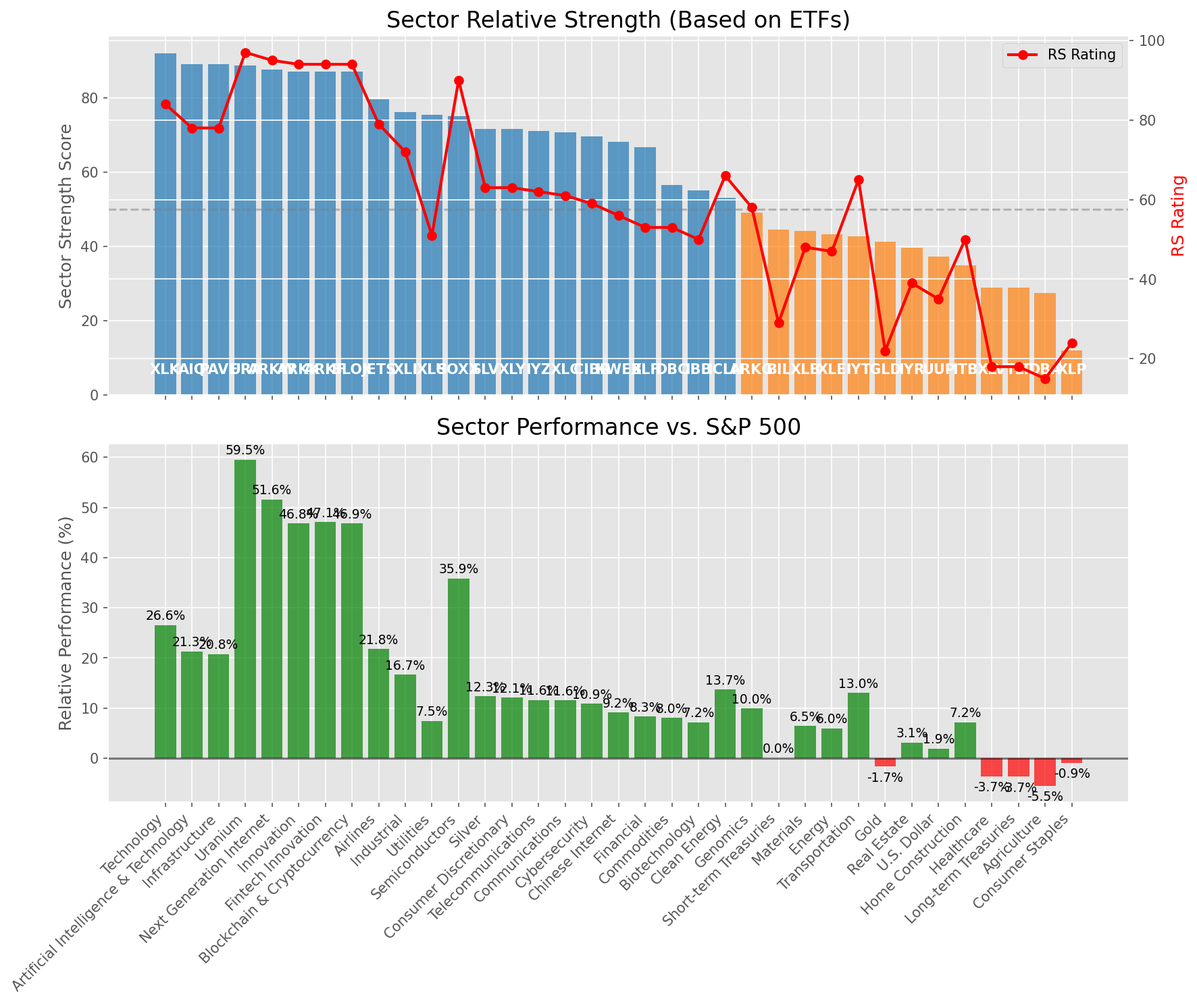
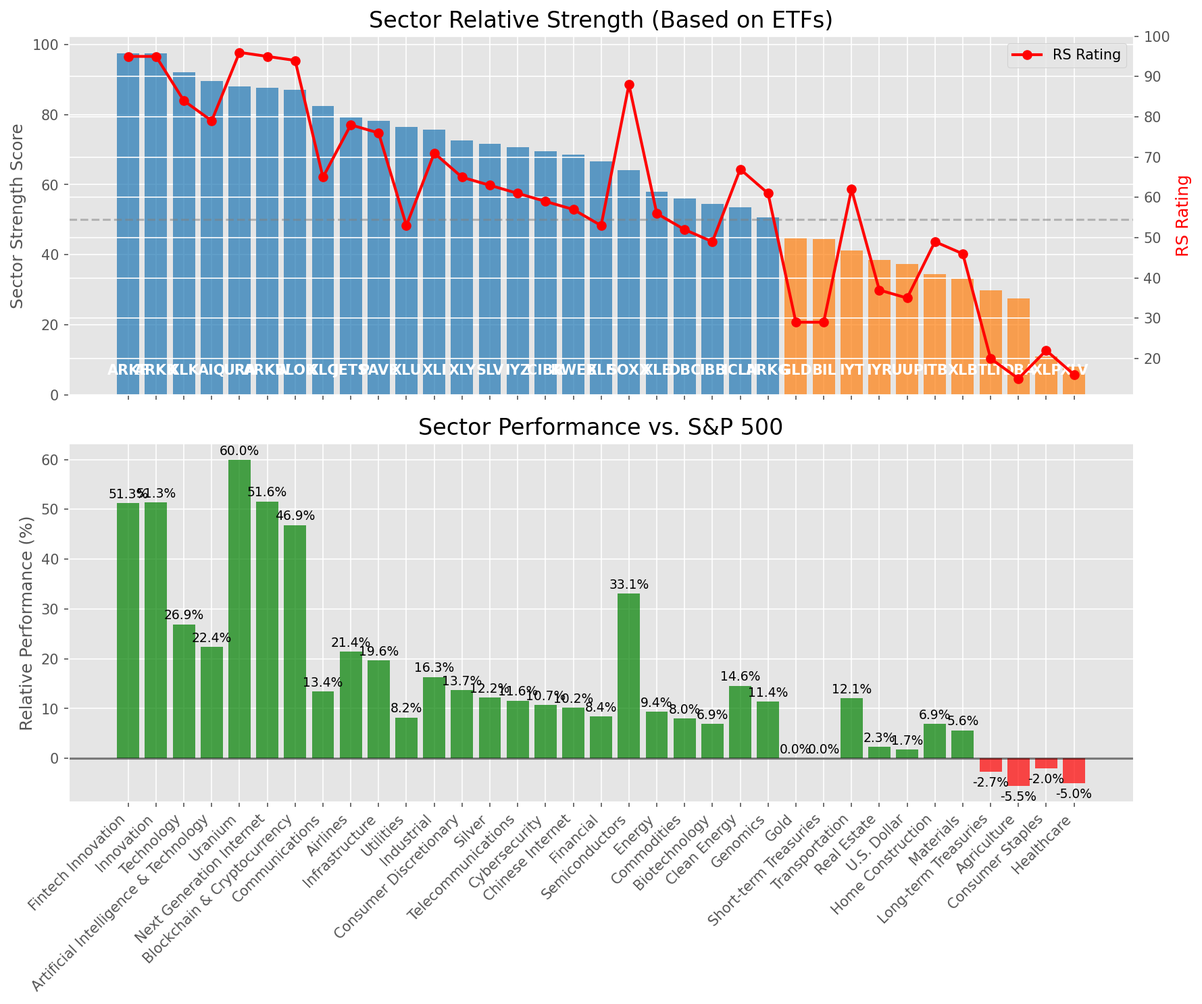
Add market report for 2025-07-31

diff --git a/oneil_relative_strength_report_2025-07-31.md b/oneil_relative_strength_report_2025-07-31.md
@@ -9,11 +9,11 @@
 | Metric | Value |
 |--------|-------|
 | **Market Valuation** | **Overvalued** |
-| **Current Ratio** | 10.29 |
-| **Historical Mean** | 9.50 |
+| **Current Ratio** | 10.37 |
+| **Historical Mean** | 9.52 |
 | **Standard Deviation** | 0.60 |
-| **Z-Score (StdDev from Mean)** | 1.34 |
-| **Total Market Cap** | $312.25 trillion |
+| **Z-Score (StdDev from Mean)** | 1.29 |
+| **Total Market Cap** | $314.61 trillion |
 | **GDP** | $30.33 trillion |
 
 ## **Market Insights**
@@ -49,41 +49,41 @@ Based on William O'Neil's Relative Strength Methodology
 
 | ETF | Strength | RS Rating | Performance | Above Key MAs | Trend | Sector |
 |-----|----------|-----------|-------------|--------------|-------|--------|
-| [XLK](https://www.tradingview.com/chart/?symbol=XLK) | 92.0 | 84.0 | 26.58% | 10d ✓, 50d ✓, 200d ✓ | ↗ | Technology |
-| [AIQ](https://www.tradingview.com/chart/?symbol=AIQ) | 89.0 | 78.0 | 21.30% | 10d ✓, 50d ✓, 200d ✓ | ↗ | Artificial Intelligence & Technology |
-| [PAVE](https://www.tradingview.com/chart/?symbol=PAVE) | 89.0 | 78.0 | 20.79% | 10d ✓, 50d ✓, 200d ✓ | ↗ | Infrastructure |
-| [URA](https://www.tradingview.com/chart/?symbol=URA) | 88.6 | 97.0 | 59.53% | 10d ✗, 50d ✓, 200d ✓ | ↗ | Uranium |
+| [ARKF](https://www.tradingview.com/chart/?symbol=ARKF) | 97.5 | 95.0 | 51.25% | 10d ✓, 50d ✓, 200d ✓ | ↗ | Fintech Innovation |
+| [ARKK](https://www.tradingview.com/chart/?symbol=ARKK) | 97.5 | 95.0 | 51.34% | 10d ✓, 50d ✓, 200d ✓ | ↗ | Innovation |
+| [XLK](https://www.tradingview.com/chart/?symbol=XLK) | 92.0 | 84.0 | 26.90% | 10d ✓, 50d ✓, 200d ✓ | ↗ | Technology |
+| [AIQ](https://www.tradingview.com/chart/?symbol=AIQ) | 89.5 | 79.0 | 22.36% | 10d ✓, 50d ✓, 200d ✓ | ↗ | Artificial Intelligence & Technology |
+| [URA](https://www.tradingview.com/chart/?symbol=URA) | 88.1 | 96.0 | 59.96% | 10d ✗, 50d ✓, 200d ✓ | ↗ | Uranium |
 | [ARKW](https://www.tradingview.com/chart/?symbol=ARKW) | 87.6 | 95.0 | 51.59% | 10d ✗, 50d ✓, 200d ✓ | ↗ | Next Generation Internet |
-| [ARKK](https://www.tradingview.com/chart/?symbol=ARKK) | 87.1 | 94.0 | 46.81% | 10d ✗, 50d ✓, 200d ✓ | ↗ | Innovation |
-| [ARKF](https://www.tradingview.com/chart/?symbol=ARKF) | 87.1 | 94.0 | 47.09% | 10d ✗, 50d ✓, 200d ✓ | ↗ | Fintech Innovation |
 | [BLOK](https://www.tradingview.com/chart/?symbol=BLOK) | 87.1 | 94.0 | 46.86% | 10d ✗, 50d ✓, 200d ✓ | ↗ | Blockchain & Cryptocurrency |
-| [JETS](https://www.tradingview.com/chart/?symbol=JETS) | 79.6 | 79.0 | 21.77% | 10d ✗, 50d ✓, 200d ✓ | ↗ | Airlines |
-| [XLI](https://www.tradingview.com/chart/?symbol=XLI) | 76.1 | 72.0 | 16.67% | 10d ✗, 50d ✓, 200d ✓ | ↗ | Industrial |
-| [XLU](https://www.tradingview.com/chart/?symbol=XLU) | 75.5 | 51.0 | 7.45% | 10d ✓, 50d ✓, 200d ✓ | ↗ | Utilities |
-| [SOXX](https://www.tradingview.com/chart/?symbol=SOXX) | 75.0 | 90.0 | 35.86% | 10d ✓, 50d ✓, 200d ✓ | ↘ | Semiconductors |
-| [SLV](https://www.tradingview.com/chart/?symbol=SLV) | 71.6 | 63.0 | 12.34% | 10d ✗, 50d ✓, 200d ✓ | ↗ | Silver |
-| [XLY](https://www.tradingview.com/chart/?symbol=XLY) | 71.6 | 63.0 | 12.12% | 10d ✗, 50d ✓, 200d ✓ | ↗ | Consumer Discretionary |
-| [IYZ](https://www.tradingview.com/chart/?symbol=IYZ) | 71.1 | 62.0 | 11.61% | 10d ✗, 50d ✓, 200d ✓ | ↗ | Telecommunications |
-| [XLC](https://www.tradingview.com/chart/?symbol=XLC) | 70.6 | 61.0 | 11.57% | 10d ✗, 50d ✓, 200d ✓ | ↗ | Communications |
-| [CIBR](https://www.tradingview.com/chart/?symbol=CIBR) | 69.6 | 59.0 | 10.86% | 10d ✗, 50d ✓, 200d ✓ | ↗ | Cybersecurity |
-| [KWEB](https://www.tradingview.com/chart/?symbol=KWEB) | 68.1 | 56.0 | 9.17% | 10d ✗, 50d ✓, 200d ✓ | ↗ | Chinese Internet |
-| [XLF](https://www.tradingview.com/chart/?symbol=XLF) | 66.6 | 53.0 | 8.28% | 10d ✗, 50d ✓, 200d ✓ | ↗ | Financial |
-| [DBC](https://www.tradingview.com/chart/?symbol=DBC) | 56.5 | 53.0 | 8.02% | 10d ✓, 50d ✓, 200d ✓ | ↘ | Commodities |
-| [IBB](https://www.tradingview.com/chart/?symbol=IBB) | 55.0 | 50.0 | 7.17% | 10d ✓, 50d ✓, 200d ✓ | ↘ | Biotechnology |
-| [ICLN](https://www.tradingview.com/chart/?symbol=ICLN) | 53.1 | 66.0 | 13.67% | 10d ✗, 50d ✓, 200d ✓ | ↘ | Clean Energy |
-| [ARKG](https://www.tradingview.com/chart/?symbol=ARKG) | 49.1 | 58.0 | 9.96% | 10d ✗, 50d ✓, 200d ✓ | ↘ | Genomics |
-| [BIL](https://www.tradingview.com/chart/?symbol=BIL) | 44.5 | 29.0 | 0.03% | 10d ✓, 50d ✓, 200d ✓ | ↘ | Short-term Treasuries |
-| [XLB](https://www.tradingview.com/chart/?symbol=XLB) | 44.1 | 48.0 | 6.46% | 10d ✗, 50d ✓, 200d ✓ | ↘ | Materials |
-| [XLE](https://www.tradingview.com/chart/?symbol=XLE) | 43.3 | 47.0 | 5.98% | 10d ✓, 50d ✓, 200d ✗ | ↘ | Energy |
-| [IYT](https://www.tradingview.com/chart/?symbol=IYT) | 42.7 | 65.0 | 13.04% | 10d ✗, 50d ✗, 200d ✓ | ↘ | Transportation |
-| [GLD](https://www.tradingview.com/chart/?symbol=GLD) | 41.2 | 22.0 | -1.67% | 10d ✗, 50d ✗, 200d ✓ | ↗ | Gold |
-| [IYR](https://www.tradingview.com/chart/?symbol=IYR) | 39.6 | 39.0 | 3.15% | 10d ✗, 50d ✓, 200d ✓ | ↘ | Real Estate |
-| [UUP](https://www.tradingview.com/chart/?symbol=UUP) | 37.3 | 35.0 | 1.94% | 10d ✓, 50d ✓, 200d ✗ | ↘ | U.S. Dollar |
-| [ITB](https://www.tradingview.com/chart/?symbol=ITB) | 34.9 | 50.0 | 7.18% | 10d ✗, 50d ✓, 200d ✗ | ↘ | Home Construction |
-| [XLV](https://www.tradingview.com/chart/?symbol=XLV) | 28.8 | 18.0 | -3.65% | 10d ✓, 50d ✓, 200d ✗ | ↘ | Healthcare |
-| [TLT](https://www.tradingview.com/chart/?symbol=TLT) | 28.8 | 18.0 | -3.69% | 10d ✓, 50d ✓, 200d ✗ | ↘ | Long-term Treasuries |
+| [XLC](https://www.tradingview.com/chart/?symbol=XLC) | 82.5 | 65.0 | 13.43% | 10d ✓, 50d ✓, 200d ✓ | ↗ | Communications |
+| [JETS](https://www.tradingview.com/chart/?symbol=JETS) | 79.1 | 78.0 | 21.42% | 10d ✗, 50d ✓, 200d ✓ | ↗ | Airlines |
+| [PAVE](https://www.tradingview.com/chart/?symbol=PAVE) | 78.1 | 76.0 | 19.62% | 10d ✗, 50d ✓, 200d ✓ | ↗ | Infrastructure |
+| [XLU](https://www.tradingview.com/chart/?symbol=XLU) | 76.5 | 53.0 | 8.22% | 10d ✓, 50d ✓, 200d ✓ | ↗ | Utilities |
+| [XLI](https://www.tradingview.com/chart/?symbol=XLI) | 75.6 | 71.0 | 16.32% | 10d ✗, 50d ✓, 200d ✓ | ↗ | Industrial |
+| [XLY](https://www.tradingview.com/chart/?symbol=XLY) | 72.6 | 65.0 | 13.66% | 10d ✗, 50d ✓, 200d ✓ | ↗ | Consumer Discretionary |
+| [SLV](https://www.tradingview.com/chart/?symbol=SLV) | 71.6 | 63.0 | 12.21% | 10d ✗, 50d ✓, 200d ✓ | ↗ | Silver |
+| [IYZ](https://www.tradingview.com/chart/?symbol=IYZ) | 70.6 | 61.0 | 11.61% | 10d ✗, 50d ✓, 200d ✓ | ↗ | Telecommunications |
+| [CIBR](https://www.tradingview.com/chart/?symbol=CIBR) | 69.6 | 59.0 | 10.67% | 10d ✗, 50d ✓, 200d ✓ | ↗ | Cybersecurity |
+| [KWEB](https://www.tradingview.com/chart/?symbol=KWEB) | 68.6 | 57.0 | 10.16% | 10d ✗, 50d ✓, 200d ✓ | ↗ | Chinese Internet |
+| [XLF](https://www.tradingview.com/chart/?symbol=XLF) | 66.6 | 53.0 | 8.41% | 10d ✗, 50d ✓, 200d ✓ | ↗ | Financial |
+| [SOXX](https://www.tradingview.com/chart/?symbol=SOXX) | 64.1 | 88.0 | 33.05% | 10d ✗, 50d ✓, 200d ✓ | ↘ | Semiconductors |
+| [XLE](https://www.tradingview.com/chart/?symbol=XLE) | 58.0 | 56.0 | 9.38% | 10d ✓, 50d ✓, 200d ✓ | ↘ | Energy |
+| [DBC](https://www.tradingview.com/chart/?symbol=DBC) | 56.0 | 52.0 | 8.02% | 10d ✓, 50d ✓, 200d ✓ | ↘ | Commodities |
+| [IBB](https://www.tradingview.com/chart/?symbol=IBB) | 54.5 | 49.0 | 6.92% | 10d ✓, 50d ✓, 200d ✓ | ↘ | Biotechnology |
+| [ICLN](https://www.tradingview.com/chart/?symbol=ICLN) | 53.6 | 67.0 | 14.57% | 10d ✗, 50d ✓, 200d ✓ | ↘ | Clean Energy |
+| [ARKG](https://www.tradingview.com/chart/?symbol=ARKG) | 50.6 | 61.0 | 11.41% | 10d ✗, 50d ✓, 200d ✓ | ↘ | Genomics |
+| [GLD](https://www.tradingview.com/chart/?symbol=GLD) | 44.7 | 29.0 | 0.02% | 10d ✗, 50d ✗, 200d ✓ | ↗ | Gold |
+| [BIL](https://www.tradingview.com/chart/?symbol=BIL) | 44.5 | 29.0 | 0.04% | 10d ✓, 50d ✓, 200d ✓ | ↘ | Short-term Treasuries |
+| [IYT](https://www.tradingview.com/chart/?symbol=IYT) | 41.2 | 62.0 | 12.08% | 10d ✗, 50d ✗, 200d ✓ | ↘ | Transportation |
+| [IYR](https://www.tradingview.com/chart/?symbol=IYR) | 38.6 | 37.0 | 2.35% | 10d ✗, 50d ✓, 200d ✓ | ↘ | Real Estate |
+| [UUP](https://www.tradingview.com/chart/?symbol=UUP) | 37.3 | 35.0 | 1.73% | 10d ✓, 50d ✓, 200d ✗ | ↘ | U.S. Dollar |
+| [ITB](https://www.tradingview.com/chart/?symbol=ITB) | 34.4 | 49.0 | 6.92% | 10d ✗, 50d ✓, 200d ✗ | ↘ | Home Construction |
+| [XLB](https://www.tradingview.com/chart/?symbol=XLB) | 33.2 | 46.0 | 5.64% | 10d ✗, 50d ✗, 200d ✓ | ↘ | Materials |
+| [TLT](https://www.tradingview.com/chart/?symbol=TLT) | 29.8 | 20.0 | -2.66% | 10d ✓, 50d ✓, 200d ✗ | ↘ | Long-term Treasuries |
 | [DBA](https://www.tradingview.com/chart/?symbol=DBA) | 27.5 | 15.0 | -5.53% | 10d ✗, 50d ✗, 200d ✗ | ↗ | Agriculture |
-| [XLP](https://www.tradingview.com/chart/?symbol=XLP) | 12.0 | 24.0 | -0.95% | 10d ✗, 50d ✗, 200d ✗ | ↘ | Consumer Staples |
+| [XLP](https://www.tradingview.com/chart/?symbol=XLP) | 11.0 | 22.0 | -2.00% | 10d ✗, 50d ✗, 200d ✗ | ↘ | Consumer Staples |
+| [XLV](https://www.tradingview.com/chart/?symbol=XLV) | 8.0 | 16.0 | -5.00% | 10d ✗, 50d ✗, 200d ✗ | ↘ | Healthcare |
 
 ### **Sector ETF Performance Interpretation**
 
@@ -98,76 +98,83 @@ This table shows the relative strength metrics for different market sectors base
 
 ### **Current Sector Leadership**
 
-The current market leadership is coming from the following sectors: **Technology, Artificial Intelligence & Technology, Infrastructure**.
+The current market leadership is coming from the following sectors: **Fintech Innovation, Innovation, Technology**.
 
-The **Technology** sector (represented by **XLK**) is showing particularly strong relative strength with an RS rating of 84.0 and performance of 26.58% vs. the S&P 500. This sector is trading above its 10-day, 50-day, 200-day moving average(s). Investors should consider focusing on high RS stocks within these leading sectors for potential outperformance.
+The **Fintech Innovation** sector (represented by **ARKF**) is showing particularly strong relative strength with an RS rating of 95.0 and performance of 51.25% vs. the S&P 500. This sector is trading above its 10-day, 50-day, 200-day moving average(s). Investors should consider focusing on high RS stocks within these leading sectors for potential outperformance.
 
 ---
 
 ## **Buy Recommendations**
 
-The following 59 stocks show exceptional relative strength:
+The following 66 stocks show exceptional relative strength:
 
 | RS Rating | Buy Score | Current Price | Chart | Name | Ticker |
 |-----------|-----------|---------------|-------|------|--------|
-| 100 | 100 | $106.10 | [Chart](https://www.tradingview.com/chart/?symbol=HOOD) | Robinhood Markets, Inc. Class A Common Stock | HOOD |
-| 100 | 100 | $202.41 | [Chart](https://www.tradingview.com/chart/?symbol=CLS) | Celestica, Inc. | CLS |
+| 100 | 100 | $106.92 | [Chart](https://www.tradingview.com/chart/?symbol=HOOD) | Robinhood Markets, Inc. Class A Common Stock | HOOD |
+| 100 | 100 | $50.50 | [Chart](https://www.tradingview.com/chart/?symbol=TTMI) | TTM Technologies Inc | TTMI |
+| 100 | 100 | $157.96 | [Chart](https://www.tradingview.com/chart/?symbol=SEZL) | Sezzle Inc. Common Stock | SEZL |
+| 100 | 100 | $209.24 | [Chart](https://www.tradingview.com/chart/?symbol=CLS) | Celestica, Inc. | CLS |
+| 100 | 100 | $61.85 | [Chart](https://www.tradingview.com/chart/?symbol=MP) | MP Materials Corp. | MP |
 | 100 | 100 | $240.20 | [Chart](https://www.tradingview.com/chart/?symbol=DAVE) | Dave Inc. Class A Common Stock | DAVE |
-| 100 | 100 | $150.93 | [Chart](https://www.tradingview.com/chart/?symbol=SEZL) | Sezzle Inc. Common Stock | SEZL |
-| 100 | 100 | $48.73 | [Chart](https://www.tradingview.com/chart/?symbol=TTMI) | TTM Technologies Inc | TTMI |
-| 99 | 100 | $65.53 | [Chart](https://www.tradingview.com/chart/?symbol=HIMS) | Hims & Hers Health, Inc. | HIMS |
-| 99 | 100 | $124.94 | [Chart](https://www.tradingview.com/chart/?symbol=RBLX) | Roblox Corporation | RBLX |
+| 99 | 100 | $69.31 | [Chart](https://www.tradingview.com/chart/?symbol=HIMS) | Hims & Hers Health, Inc. | HIMS |
 | 99 | 100 | $76.40 | [Chart](https://www.tradingview.com/chart/?symbol=LIF) | Life360, Inc. Common Stock | LIF |
-| 98 | 100 | $373.36 | [Chart](https://www.tradingview.com/chart/?symbol=TLN) | Talen Energy Corporation Common Stock | TLN |
-| 98 | 100 | $655.00 | [Chart](https://www.tradingview.com/chart/?symbol=GEV) | GE Vernova Inc. | GEV |
-| 98 | 100 | $24.36 | [Chart](https://www.tradingview.com/chart/?symbol=CPS) | Cooper-Standard Automotive Inc. | CPS |
-| 97 | 100 | $200.85 | [Chart](https://www.tradingview.com/chart/?symbol=NET) | Cloudflare, Inc. Class A common stock, par value $0.001 per share | NET |
-| 97 | 100 | $36.18 | [Chart](https://www.tradingview.com/chart/?symbol=ATRO) | Astronics Corp | ATRO |
-| 97 | 100 | $38.85 | [Chart](https://www.tradingview.com/chart/?symbol=AS) | Amer Sports, Inc. | AS |
-| 96 | 100 | $226.42 | [Chart](https://www.tradingview.com/chart/?symbol=JBL) | Jabil Inc. | JBL |
-| 96 | 100 | $240.50 | [Chart](https://www.tradingview.com/chart/?symbol=AGX) | Argan, Inc | AGX |
-| 96 | 100 | $49.18 | [Chart](https://www.tradingview.com/chart/?symbol=REVG) | REV Group, Inc. | REVG |
-| 96 | 100 | $66.22 | [Chart](https://www.tradingview.com/chart/?symbol=IBKR) | Interactive Brokers Group, Inc. Class A Common Stock | IBKR |
-| 95 | 100 | $166.59 | [Chart](https://www.tradingview.com/chart/?symbol=NRG) | NRG Energy, Inc. | NRG |
+| 99 | 100 | $670.83 | [Chart](https://www.tradingview.com/chart/?symbol=GEV) | GE Vernova Inc. | GEV |
+| 99 | 100 | $142.34 | [Chart](https://www.tradingview.com/chart/?symbol=RBLX) | Roblox Corporation | RBLX |
+| 98 | 100 | $377.89 | [Chart](https://www.tradingview.com/chart/?symbol=TLN) | Talen Energy Corporation Common Stock | TLN |
+| 98 | 100 | $58.38 | [Chart](https://www.tradingview.com/chart/?symbol=KTOS) | Kratos Defense & Security Solutions, Inc. | KTOS |
+| 98 | 100 | $409.50 | [Chart](https://www.tradingview.com/chart/?symbol=CVNA) | Carvana Co. | CVNA |
+| 98 | 100 | $208.76 | [Chart](https://www.tradingview.com/chart/?symbol=NET) | Cloudflare, Inc. Class A common stock, par value $0.001 per share | NET |
+| 97 | 100 | $250.00 | [Chart](https://www.tradingview.com/chart/?symbol=AGX) | Argan, Inc | AGX |
+| 97 | 100 | $36.30 | [Chart](https://www.tradingview.com/chart/?symbol=ATRO) | Astronics Corp | ATRO |
+| 97 | 100 | $24.36 | [Chart](https://www.tradingview.com/chart/?symbol=CPS) | Cooper-Standard Automotive Inc. | CPS |
+| 97 | 100 | $37.73 | [Chart](https://www.tradingview.com/chart/?symbol=NNE) | Nano Nuclear Energy Inc. Common Stock | NNE |
+| 96 | 100 | $66.44 | [Chart](https://www.tradingview.com/chart/?symbol=IBKR) | Interactive Brokers Group, Inc. Class A Common Stock | IBKR |
+| 96 | 100 | $38.37 | [Chart](https://www.tradingview.com/chart/?symbol=AS) | Amer Sports, Inc. | AS |
+| 95 | 100 | $49.18 | [Chart](https://www.tradingview.com/chart/?symbol=REVG) | REV Group, Inc. | REVG |
+| 95 | 100 | $54.57 | [Chart](https://www.tradingview.com/chart/?symbol=ARKF) | ARK Fintech Innovation ETF | ARKF |
+| 95 | 100 | $117.23 | [Chart](https://www.tradingview.com/chart/?symbol=SANM) | Sanmina  Corp | SANM |
 | 95 | 100 | $137.88 | [Chart](https://www.tradingview.com/chart/?symbol=LMB) | Limbach Holdings, Inc Common Stock | LMB |
-| 94 | 100 | $266.10 | [Chart](https://www.tradingview.com/chart/?symbol=WWD) | Woodward, Inc. | WWD |
-| 94 | 100 | $115.90 | [Chart](https://www.tradingview.com/chart/?symbol=SANM) | Sanmina  Corp | SANM |
-| 93 | 100 | $283.63 | [Chart](https://www.tradingview.com/chart/?symbol=CRS) | Carpenter Technology Corp | CRS |
-| 93 | 100 | $19.11 | [Chart](https://www.tradingview.com/chart/?symbol=LQDA) | Liquidia Corporation Common Stock | LQDA |
-| 93 | 100 | $105.14 | [Chart](https://www.tradingview.com/chart/?symbol=VRNA) | Verona Pharma plc | VRNA |
-| 93 | 100 | $22.42 | [Chart](https://www.tradingview.com/chart/?symbol=MIR) | Mirion Technologies, Inc. | MIR |
-| 93 | 100 | $59.03 | [Chart](https://www.tradingview.com/chart/?symbol=VIK) | Viking Holdings Ltd | VIK |
-| 92 | 100 | $95.81 | [Chart](https://www.tradingview.com/chart/?symbol=C) | Citigroup Inc. | C |
-| 92 | 100 | $192.14 | [Chart](https://www.tradingview.com/chart/?symbol=HWM) | Howmet Aerospace Inc. | HWM |
-| 91 | 100 | $158.61 | [Chart](https://www.tradingview.com/chart/?symbol=PLTR) | Palantir Technologies Inc. Class A Common Stock | PLTR |
-| 91 | 100 | $105.49 | [Chart](https://www.tradingview.com/chart/?symbol=APH) | Amphenol Corporation | APH |
-| 90 | 100 | $95.42 | [Chart](https://www.tradingview.com/chart/?symbol=RBRK) | Rubrik, Inc. | RBRK |
-| 90 | 100 | $82.56 | [Chart](https://www.tradingview.com/chart/?symbol=TPB) | Turning Point Brands, Inc. | TPB |
+| 94 | 100 | $105.19 | [Chart](https://www.tradingview.com/chart/?symbol=VRNA) | Verona Pharma plc | VRNA |
+| 94 | 100 | $54.91 | [Chart](https://www.tradingview.com/chart/?symbol=INOD) | Innodata Inc. | INOD |
+| 93 | 100 | $36.22 | [Chart](https://www.tradingview.com/chart/?symbol=APG) | APi Group Corporation | APG |
+| 93 | 100 | $266.10 | [Chart](https://www.tradingview.com/chart/?symbol=WWD) | Woodward, Inc. | WWD |
+| 93 | 100 | $59.47 | [Chart](https://www.tradingview.com/chart/?symbol=VIK) | Viking Holdings Ltd | VIK |
+| 93 | 100 | $22.66 | [Chart](https://www.tradingview.com/chart/?symbol=MIR) | Mirion Technologies, Inc. | MIR |
+| 91 | 100 | $107.14 | [Chart](https://www.tradingview.com/chart/?symbol=APH) | Amphenol Corporation | APH |
+| 91 | 100 | $95.67 | [Chart](https://www.tradingview.com/chart/?symbol=C) | Citigroup Inc. | C |
+| 91 | 100 | $49.16 | [Chart](https://www.tradingview.com/chart/?symbol=TOST) | Toast, Inc. | TOST |
+| 90 | 100 | $96.14 | [Chart](https://www.tradingview.com/chart/?symbol=RBRK) | Rubrik, Inc. | RBRK |
 | 90 | 100 | $45.14 | [Chart](https://www.tradingview.com/chart/?symbol=FROG) | JFrog Ltd. Ordinary Shares | FROG |
-| 90 | 100 | $273.55 | [Chart](https://www.tradingview.com/chart/?symbol=GE) | GE Aerospace | GE |
-| 89 | 100 | $48.61 | [Chart](https://www.tradingview.com/chart/?symbol=TOST) | Toast, Inc. | TOST |
-| 89 | 100 | $66.47 | [Chart](https://www.tradingview.com/chart/?symbol=CAKE) | Cheesecake Factory (The) | CAKE |
+| 90 | 100 | $273.48 | [Chart](https://www.tradingview.com/chart/?symbol=GE) | GE Aerospace | GE |
+| 90 | 100 | $19.09 | [Chart](https://www.tradingview.com/chart/?symbol=LQDA) | Liquidia Corporation Common Stock | LQDA |
+| 90 | 100 | $82.56 | [Chart](https://www.tradingview.com/chart/?symbol=TPB) | Turning Point Brands, Inc. | TPB |
+| 89 | 100 | $159.99 | [Chart](https://www.tradingview.com/chart/?symbol=PLTR) | Palantir Technologies Inc. Class A Common Stock | PLTR |
+| 88 | 100 | $89.88 | [Chart](https://www.tradingview.com/chart/?symbol=EBAY) | eBay Inc | EBAY |
 | 88 | 100 | $41.89 | [Chart](https://www.tradingview.com/chart/?symbol=LTM) | LATAM Airlines Group S.A. American Depositary Shares (each representing two thousand (2,000) shares of Common Stock) | LTM |
-| 88 | 99 | $62.00 | [Chart](https://www.tradingview.com/chart/?symbol=RYAAY) | Ryanair Holdings plc American Depositary Shares | RYAAY |
+| 87 | 99 | $151.00 | [Chart](https://www.tradingview.com/chart/?symbol=VSEC) | VSE Corp | VSEC |
 | 85 | 99 | $29.33 | [Chart](https://www.tradingview.com/chart/?symbol=SRAD) | Sportradar Group AG Class A Ordinary Shares | SRAD |
-| 87 | 98 | $147.02 | [Chart](https://www.tradingview.com/chart/?symbol=PPA) | Invesco Aerospace & Defense ETF | PPA |
 | 87 | 97 | $189.98 | [Chart](https://www.tradingview.com/chart/?symbol=AWI) | Armstrong World Industries, Inc. | AWI |
+| 86 | 97 | $147.02 | [Chart](https://www.tradingview.com/chart/?symbol=PPA) | Invesco Aerospace & Defense ETF | PPA |
 | 86 | 97 | $84.40 | [Chart](https://www.tradingview.com/chart/?symbol=USFD) | US Foods Holding Corp. | USFD |
-| 86 | 97 | $73.17 | [Chart](https://www.tradingview.com/chart/?symbol=ULS) | UL Solutions Inc. | ULS |
-| 85 | 97 | $102.30 | [Chart](https://www.tradingview.com/chart/?symbol=BK) | Bank of New York Mellon Corporation | BK |
-| 86 | 96 | $48.49 | [Chart](https://www.tradingview.com/chart/?symbol=INOD) | Innodata Inc. | INOD |
-| 83 | 96 | $66.92 | [Chart](https://www.tradingview.com/chart/?symbol=CHEF) | The Chef's Warehouse Inc | CHEF |
-| 84 | 95 | $198.64 | [Chart](https://www.tradingview.com/chart/?symbol=ITA) | iShares U.S. Aerospace & Defense ETF | ITA |
-| 81 | 95 | $19.86 | [Chart](https://www.tradingview.com/chart/?symbol=BCS) | Barclays PLC | BCS |
-| 84 | 94 | $260.91 | [Chart](https://www.tradingview.com/chart/?symbol=WTS) | Watts Water Technologies, Inc. Class A | WTS |
-| 84 | 94 | $95.99 | [Chart](https://www.tradingview.com/chart/?symbol=NDAQ) | Nasdaq, Inc. Common Stock | NDAQ |
+| 85 | 96 | $73.17 | [Chart](https://www.tradingview.com/chart/?symbol=ULS) | UL Solutions Inc. | ULS |
+| 84 | 96 | $102.31 | [Chart](https://www.tradingview.com/chart/?symbol=BK) | Bank of New York Mellon Corporation | BK |
+| 83 | 96 | $57.89 | [Chart](https://www.tradingview.com/chart/?symbol=ERJ) | Embraer S.A. | ERJ |
+| 83 | 96 | $33.10 | [Chart](https://www.tradingview.com/chart/?symbol=DB) | Deutsche Bank Aktiengesellschaft | DB |
+| 82 | 95 | $66.92 | [Chart](https://www.tradingview.com/chart/?symbol=CHEF) | The Chef's Warehouse Inc | CHEF |
+| 82 | 94 | $67.27 | [Chart](https://www.tradingview.com/chart/?symbol=IBIT) | iShares Bitcoin Trust ETF | IBIT |
+| 82 | 94 | $33.49 | [Chart](https://www.tradingview.com/chart/?symbol=HODL) | VanEck Bitcoin ETF | HODL |
+| 82 | 94 | $52.44 | [Chart](https://www.tradingview.com/chart/?symbol=BTC) | Grayscale Bitcoin Mini Trust ETF | BTC |
 | 82 | 94 | $399.00 | [Chart](https://www.tradingview.com/chart/?symbol=LPLA) | LPL Financial Holdings Inc. | LPLA |
-| 81 | 94 | $33.26 | [Chart](https://www.tradingview.com/chart/?symbol=DB) | Deutsche Bank Aktiengesellschaft | DB |
-| 81 | 93 | $53.16 | [Chart](https://www.tradingview.com/chart/?symbol=BTI) | British American Tobacco p.l.c. American Depositary Shares, American Depositary Shares, each representing one Ordinary Share | BTI |
-| 81 | 93 | $435.19 | [Chart](https://www.tradingview.com/chart/?symbol=CYBR) | CyberArk Software Ltd. | CYBR |
-| 81 | 93 | $141.48 | [Chart](https://www.tradingview.com/chart/?symbol=VSEC) | VSE Corp | VSEC |
-| 81 | 92 | $286.90 | [Chart](https://www.tradingview.com/chart/?symbol=VEEV) | Veeva Systems Inc. | VEEV |
-| 80 | 91 | $299.63 | [Chart](https://www.tradingview.com/chart/?symbol=JPM) | JPMorgan Chase & Co. | JPM |
+| 80 | 94 | $19.79 | [Chart](https://www.tradingview.com/chart/?symbol=BCS) | Barclays PLC | BCS |
+| 83 | 93 | $260.91 | [Chart](https://www.tradingview.com/chart/?symbol=WTS) | Watts Water Technologies, Inc. Class A | WTS |
+| 83 | 93 | $96.16 | [Chart](https://www.tradingview.com/chart/?symbol=NDAQ) | Nasdaq, Inc. Common Stock | NDAQ |
+| 82 | 93 | $197.09 | [Chart](https://www.tradingview.com/chart/?symbol=ITA) | iShares U.S. Aerospace & Defense ETF | ITA |
+| 81 | 92 | $47.55 | [Chart](https://www.tradingview.com/chart/?symbol=BBIO) | BridgeBio Pharma, Inc. Common Stock | BBIO |
+| 80 | 92 | $53.59 | [Chart](https://www.tradingview.com/chart/?symbol=BTI) | British American Tobacco p.l.c. American Depositary Shares, American Depositary Shares, each representing one Ordinary Share | BTI |
+| 80 | 92 | $327.04 | [Chart](https://www.tradingview.com/chart/?symbol=FFIV) | F5, Inc. Common Stock | FFIV |
+| 81 | 91 | $85.60 | [Chart](https://www.tradingview.com/chart/?symbol=BYD) | Boyd Gaming Corporation | BYD |
+| 80 | 91 | $288.28 | [Chart](https://www.tradingview.com/chart/?symbol=VEEV) | Veeva Systems Inc. | VEEV |
+| 80 | 90 | $116.83 | [Chart](https://www.tradingview.com/chart/?symbol=SPMO) | Invesco S&P 500 Momentum ETF | SPMO |
 | 80 | 90 | $49.70 | [Chart](https://www.tradingview.com/chart/?symbol=FHI) | Federated Hermes, Inc. | FHI |
 
 ---
@@ -175,94 +182,116 @@ The following 59 stocks show exceptional relative strength:
 
 ## **Sell Recommendations**
 
-The following 85 stocks show deteriorating relative strength:
+The following 107 stocks show deteriorating relative strength:
 
 | RS Rating | Sell Score | Current Price | Chart | Name | Ticker |
 |-----------|------------|---------------|-------|------|--------|
-| 1 | 100 | $11.90 | [Chart](https://www.tradingview.com/chart/?symbol=NVDS) | Investment Managers Series Trust II Tradr 1.5X Short NVDA Daily ETF | NVDS |
-| 1 | 100 | $17.83 | [Chart](https://www.tradingview.com/chart/?symbol=GPCR) | Structure Therapeutics Inc. American Depositary Shares | GPCR |
-| 1 | 100 | $71.84 | [Chart](https://www.tradingview.com/chart/?symbol=LNTH) | Lantheus Holdings, Inc | LNTH |
-| 1 | 100 | $23.62 | [Chart](https://www.tradingview.com/chart/?symbol=TECS) | Direxion Daily Technology Bear 3x Shares | TECS |
+| 1 | 100 | $23.11 | [Chart](https://www.tradingview.com/chart/?symbol=TECS) | Direxion Daily Technology Bear 3x Shares | TECS |
+| 1 | 100 | $11.63 | [Chart](https://www.tradingview.com/chart/?symbol=NVDS) | Investment Managers Series Trust II Tradr 1.5X Short NVDA Daily ETF | NVDS |
+| 1 | 100 | $17.89 | [Chart](https://www.tradingview.com/chart/?symbol=GPCR) | Structure Therapeutics Inc. American Depositary Shares | GPCR |
+| 2 | 100 | $23.70 | [Chart](https://www.tradingview.com/chart/?symbol=QID) | ProShares UltraShort QQQ | QID |
+| 2 | 100 | $15.36 | [Chart](https://www.tradingview.com/chart/?symbol=TVTX) | Travere Therapeutics, Inc. Common Stock | TVTX |
+| 2 | 100 | $53.16 | [Chart](https://www.tradingview.com/chart/?symbol=GMED) | GLOBUS MEDICAL INC | GMED |
 | 2 | 100 | $14.25 | [Chart](https://www.tradingview.com/chart/?symbol=CLBT) | Cellebrite DI Ltd. Class A Ordinary Shares | CLBT |
-| 2 | 100 | $53.45 | [Chart](https://www.tradingview.com/chart/?symbol=GMED) | GLOBUS MEDICAL INC | GMED |
+| 2 | 100 | $12.50 | [Chart](https://www.tradingview.com/chart/?symbol=CDNA) | CareDx, Inc. | CDNA |
 | 2 | 100 | $61.54 | [Chart](https://www.tradingview.com/chart/?symbol=SKY) | Champion Homes, Inc. | SKY |
-| 2 | 100 | $12.86 | [Chart](https://www.tradingview.com/chart/?symbol=CDNA) | CareDx, Inc. | CDNA |
-| 3 | 100 | $40.66 | [Chart](https://www.tradingview.com/chart/?symbol=SDOW) | ProShares UltraPro Short Dow 30 | SDOW |
+| 2 | 100 | $71.84 | [Chart](https://www.tradingview.com/chart/?symbol=LNTH) | Lantheus Holdings, Inc | LNTH |
+| 3 | 100 | $40.45 | [Chart](https://www.tradingview.com/chart/?symbol=SDOW) | ProShares UltraPro Short Dow 30 | SDOW |
 | 3 | 100 | $36.90 | [Chart](https://www.tradingview.com/chart/?symbol=IBTA) | Ibotta, Inc. | IBTA |
 | 3 | 100 | $12.11 | [Chart](https://www.tradingview.com/chart/?symbol=PSFE) | Paysafe Limited | PSFE |
-| 4 | 100 | $16.44 | [Chart](https://www.tradingview.com/chart/?symbol=BTAL) | AGF U.S. Market Neutral Anti-Beta Fund | BTAL |
 | 4 | 100 | $22.40 | [Chart](https://www.tradingview.com/chart/?symbol=HELE) | Helen Of Troy Ltd | HELE |
 | 4 | 100 | $16.08 | [Chart](https://www.tradingview.com/chart/?symbol=CSTL) | Castle Biosciences, Inc. Common Stock | CSTL |
-| 5 | 100 | $10.37 | [Chart](https://www.tradingview.com/chart/?symbol=OEC) | Orion S.A. | OEC |
-| 5 | 100 | $10.68 | [Chart](https://www.tradingview.com/chart/?symbol=ARDT) | Ardent Health, Inc. | ARDT |
+| 5 | 100 | $16.44 | [Chart](https://www.tradingview.com/chart/?symbol=BTAL) | AGF U.S. Market Neutral Anti-Beta Fund | BTAL |
 | 5 | 100 | $14.73 | [Chart](https://www.tradingview.com/chart/?symbol=PLSE) | Pulse Biosciences, Inc Common Stock (DE) | PLSE |
-| 6 | 100 | $12.52 | [Chart](https://www.tradingview.com/chart/?symbol=BSM) | Black Stone Minerals, L.P. | BSM |
-| 7 | 100 | $10.18 | [Chart](https://www.tradingview.com/chart/?symbol=IMXI) | International Money Express, Inc. | IMXI |
+| 5 | 100 | $10.02 | [Chart](https://www.tradingview.com/chart/?symbol=OEC) | Orion S.A. | OEC |
+| 6 | 100 | $10.68 | [Chart](https://www.tradingview.com/chart/?symbol=ARDT) | Ardent Health, Inc. | ARDT |
+| 7 | 100 | $38.59 | [Chart](https://www.tradingview.com/chart/?symbol=SH) | ProShares Short S&P500 | SH |
+| 7 | 100 | $12.52 | [Chart](https://www.tradingview.com/chart/?symbol=BSM) | Black Stone Minerals, L.P. | BSM |
+| 7 | 100 | $43.58 | [Chart](https://www.tradingview.com/chart/?symbol=CMG) | Chipotle Mexican Grill, Inc. | CMG |
 | 7 | 100 | $21.34 | [Chart](https://www.tradingview.com/chart/?symbol=AMPH) | Amphastar Pharmaceuticals, Inc. | AMPH |
+| 7 | 100 | $10.18 | [Chart](https://www.tradingview.com/chart/?symbol=IMXI) | International Money Express, Inc. | IMXI |
+| 8 | 100 | $13.72 | [Chart](https://www.tradingview.com/chart/?symbol=DXC) | DXC Technology Company | DXC |
 | 9 | 100 | $21.41 | [Chart](https://www.tradingview.com/chart/?symbol=AMRK) | A-Mark Precious Metals, Inc. | AMRK |
-| 10 | 100 | $15.03 | [Chart](https://www.tradingview.com/chart/?symbol=FIHL) | Fidelis Insurance Holdings Limited | FIHL |
 | 10 | 100 | $54.78 | [Chart](https://www.tradingview.com/chart/?symbol=HRB) | H&R Block, Inc. | HRB |
-| 11 | 100 | $125.47 | [Chart](https://www.tradingview.com/chart/?symbol=ICUI) | ICU Medical Inc | ICUI |
-| 12 | 100 | $16.34 | [Chart](https://www.tradingview.com/chart/?symbol=UMH) | UMH Properties, Inc. | UMH |
+| 11 | 100 | $190.72 | [Chart](https://www.tradingview.com/chart/?symbol=AVB) | AvalonBay Communities, Inc. | AVB |
+| 11 | 100 | $15.03 | [Chart](https://www.tradingview.com/chart/?symbol=FIHL) | Fidelis Insurance Holdings Limited | FIHL |
+| 13 | 100 | $16.34 | [Chart](https://www.tradingview.com/chart/?symbol=UMH) | UMH Properties, Inc. | UMH |
 | 13 | 100 | $69.72 | [Chart](https://www.tradingview.com/chart/?symbol=NHI) | National Health Investors | NHI |
-| 7 | 99 | $13.73 | [Chart](https://www.tradingview.com/chart/?symbol=DXC) | DXC Technology Company | DXC |
-| 7 | 98 | $38.87 | [Chart](https://www.tradingview.com/chart/?symbol=SH) | ProShares Short S&P500 | SH |
-| 8 | 97 | $27.80 | [Chart](https://www.tradingview.com/chart/?symbol=DOCN) | DigitalOcean Holdings, Inc. | DOCN |
+| 16 | 100 | $129.92 | [Chart](https://www.tradingview.com/chart/?symbol=ICUI) | ICU Medical Inc | ICUI |
+| 2 | 98 | $10.18 | [Chart](https://www.tradingview.com/chart/?symbol=CERT) | Certara, Inc. Common Stock | CERT |
+| 3 | 97 | $46.45 | [Chart](https://www.tradingview.com/chart/?symbol=CPRT) | Copart Inc | CPRT |
+| 7 | 97 | $52.79 | [Chart](https://www.tradingview.com/chart/?symbol=TSN) | Tyson Foods, Inc. | TSN |
 | 8 | 97 | $21.32 | [Chart](https://www.tradingview.com/chart/?symbol=ERY) | Direxion Daily Energy Bear 2X Shares | ERY |
+| 10 | 97 | $19.66 | [Chart](https://www.tradingview.com/chart/?symbol=GAP) | The Gap, Inc. | GAP |
+| 11 | 97 | $28.08 | [Chart](https://www.tradingview.com/chart/?symbol=DOCN) | DigitalOcean Holdings, Inc. | DOCN |
 | 12 | 97 | $18.61 | [Chart](https://www.tradingview.com/chart/?symbol=AMN) | AMN Healthcare Services | AMN |
-| 6 | 96 | $43.76 | [Chart](https://www.tradingview.com/chart/?symbol=CMG) | Chipotle Mexican Grill, Inc. | CMG |
+| 5 | 96 | $23.87 | [Chart](https://www.tradingview.com/chart/?symbol=DXD) | ProShares UltraShort Dow 30 | DXD |
 | 9 | 96 | $44.89 | [Chart](https://www.tradingview.com/chart/?symbol=CWT) | California Water Service | CWT |
-| 16 | 96 | $13.91 | [Chart](https://www.tradingview.com/chart/?symbol=OCSL) | Oaktree Specialty Lending Corporation | OCSL |
-| 10 | 95 | $19.67 | [Chart](https://www.tradingview.com/chart/?symbol=GAP) | The Gap, Inc. | GAP |
+| 6 | 95 | $17.15 | [Chart](https://www.tradingview.com/chart/?symbol=NOMD) | Nomad Foods Limited | NOMD |
+| 8 | 95 | $121.11 | [Chart](https://www.tradingview.com/chart/?symbol=RGEN) | Repligen Corp | RGEN |
+| 10 | 95 | $92.63 | [Chart](https://www.tradingview.com/chart/?symbol=ZBH) | Zimmer Biomet Holdings, Inc. | ZBH |
 | 14 | 95 | $19.59 | [Chart](https://www.tradingview.com/chart/?symbol=AVBP) | ArriVent BioPharma, Inc. Common Stock | AVBP |
+| 17 | 95 | $13.91 | [Chart](https://www.tradingview.com/chart/?symbol=OCSL) | Oaktree Specialty Lending Corporation | OCSL |
 | 8 | 94 | $21.82 | [Chart](https://www.tradingview.com/chart/?symbol=BLFS) | BioLife Solutions Inc. | BLFS |
-| 11 | 94 | $36.60 | [Chart](https://www.tradingview.com/chart/?symbol=LZB) | La-Z-Boy Incorporated | LZB |
 | 14 | 94 | $281.95 | [Chart](https://www.tradingview.com/chart/?symbol=UTHR) | United Therapeutics Corp | UTHR |
-| 15 | 94 | $196.31 | [Chart](https://www.tradingview.com/chart/?symbol=AVB) | AvalonBay Communities, Inc. | AVB |
-| 20 | 94 | $16.45 | [Chart](https://www.tradingview.com/chart/?symbol=MLNK) | MeridianLink, Inc. | MLNK |
+| 9 | 93 | $44.91 | [Chart](https://www.tradingview.com/chart/?symbol=BMY) | Bristol-Myers Squibb Co. | BMY |
+| 12 | 93 | $99.88 | [Chart](https://www.tradingview.com/chart/?symbol=AFL) | Aflac Inc. | AFL |
+| 12 | 93 | $36.60 | [Chart](https://www.tradingview.com/chart/?symbol=LZB) | La-Z-Boy Incorporated | LZB |
+| 21 | 93 | $16.45 | [Chart](https://www.tradingview.com/chart/?symbol=MLNK) | MeridianLink, Inc. | MLNK |
+| 13 | 92 | $34.75 | [Chart](https://www.tradingview.com/chart/?symbol=AMH) | AMERICAN HOMES 4 RENT | AMH |
 | 14 | 92 | $10.50 | [Chart](https://www.tradingview.com/chart/?symbol=SD) | SandRidge Energy, Inc. | SD |
-| 14 | 92 | $13.31 | [Chart](https://www.tradingview.com/chart/?symbol=GOOD) | Gladstone Commercial Corporation - REIT | GOOD |
-| 17 | 92 | $21.47 | [Chart](https://www.tradingview.com/chart/?symbol=TUA) | Simplify Short Term Treasury Futures Strategy ETF | TUA |
-| 13 | 91 | $45.98 | [Chart](https://www.tradingview.com/chart/?symbol=BMY) | Bristol-Myers Squibb Co. | BMY |
+| 12 | 91 | $58.57 | [Chart](https://www.tradingview.com/chart/?symbol=UL) | Unilever plc | UL |
+| 15 | 91 | $13.31 | [Chart](https://www.tradingview.com/chart/?symbol=GOOD) | Gladstone Commercial Corporation - REIT | GOOD |
+| 18 | 91 | $21.47 | [Chart](https://www.tradingview.com/chart/?symbol=TUA) | Simplify Short Term Treasury Futures Strategy ETF | TUA |
+| 19 | 91 | $37.00 | [Chart](https://www.tradingview.com/chart/?symbol=PBA) | PEMBINA PIPELINE CORPORATION | PBA |
 | 20 | 91 | $11.51 | [Chart](https://www.tradingview.com/chart/?symbol=NVG) | Nuveen AMT-Free Municipal Credit Income Fund | NVG |
-| 15 | 90 | $210.09 | [Chart](https://www.tradingview.com/chart/?symbol=MKTX) | MarketAxess Holdings Inc. | MKTX |
+| 13 | 90 | $208.93 | [Chart](https://www.tradingview.com/chart/?symbol=AMT) | American Tower Corporation | AMT |
 | 15 | 90 | $12.39 | [Chart](https://www.tradingview.com/chart/?symbol=WSR) | Whitestone REIT | WSR |
+| 16 | 90 | $233.06 | [Chart](https://www.tradingview.com/chart/?symbol=WDAY) | Workday, Inc. Class A Common Stock | WDAY |
 | 17 | 90 | $13.13 | [Chart](https://www.tradingview.com/chart/?symbol=CCRN) | Cross Country Healthcare Inc | CCRN |
 | 18 | 90 | $10.49 | [Chart](https://www.tradingview.com/chart/?symbol=ACIC) | American Coastal Insurance Corporation Common Stock | ACIC |
-| 18 | 90 | $37.11 | [Chart](https://www.tradingview.com/chart/?symbol=PBA) | PEMBINA PIPELINE CORPORATION | PBA |
-| 12 | 89 | $36.38 | [Chart](https://www.tradingview.com/chart/?symbol=MSTX) | Tidal Trust II Defiance Daily Target 2x Long MSTR ETF | MSTX |
-| 18 | 89 | $31.05 | [Chart](https://www.tradingview.com/chart/?symbol=MBIN) | Merchants Bancorp Common Stock | MBIN |
-| 18 | 89 | $78.06 | [Chart](https://www.tradingview.com/chart/?symbol=AKAM) | Akamai Technologies Inc | AKAM |
+| 15 | 89 | $333.38 | [Chart](https://www.tradingview.com/chart/?symbol=SHW) | The Sherwin-Williams Company | SHW |
+| 16 | 89 | $210.09 | [Chart](https://www.tradingview.com/chart/?symbol=MKTX) | MarketAxess Holdings Inc. | MKTX |
+| 20 | 89 | $78.31 | [Chart](https://www.tradingview.com/chart/?symbol=AKAM) | Akamai Technologies Inc | AKAM |
 | 21 | 89 | $87.61 | [Chart](https://www.tradingview.com/chart/?symbol=BCO) | The Brink's Company | BCO |
-| 13 | 88 | $59.01 | [Chart](https://www.tradingview.com/chart/?symbol=UL) | Unilever plc | UL |
 | 16 | 88 | $184.56 | [Chart](https://www.tradingview.com/chart/?symbol=AIZ) | Assurant, Inc. | AIZ |
-| 22 | 88 | $11.63 | [Chart](https://www.tradingview.com/chart/?symbol=NZF) | Nuveen Municipal Credit Income Fund | NZF |
-| 21 | 87 | $101.78 | [Chart](https://www.tradingview.com/chart/?symbol=PRU) | Prudential Financial, Inc. | PRU |
-| 14 | 86 | $208.74 | [Chart](https://www.tradingview.com/chart/?symbol=AMT) | American Tower Corporation | AMT |
-| 23 | 86 | $10.68 | [Chart](https://www.tradingview.com/chart/?symbol=NEA) | Nuveen AMT-Free Quality Municipal Income Fund | NEA |
+| 19 | 88 | $31.05 | [Chart](https://www.tradingview.com/chart/?symbol=MBIN) | Merchants Bancorp Common Stock | MBIN |
+| 16 | 87 | $125.25 | [Chart](https://www.tradingview.com/chart/?symbol=KMB) | Kimberly-Clark Corp. | KMB |
+| 20 | 87 | $23.73 | [Chart](https://www.tradingview.com/chart/?symbol=PFE) | Pfizer Inc. | PFE |
+| 23 | 87 | $11.63 | [Chart](https://www.tradingview.com/chart/?symbol=NZF) | Nuveen Municipal Credit Income Fund | NZF |
+| 24 | 87 | $10.76 | [Chart](https://www.tradingview.com/chart/?symbol=NEA) | Nuveen AMT-Free Quality Municipal Income Fund | NEA |
+| 24 | 86 | $25.28 | [Chart](https://www.tradingview.com/chart/?symbol=HPQ) | HP Inc. | HPQ |
+| 24 | 86 | $11.17 | [Chart](https://www.tradingview.com/chart/?symbol=NAD) | Nuveen Quality Municipal Income Fund | NAD |
 | 25 | 86 | $10.84 | [Chart](https://www.tradingview.com/chart/?symbol=MQY) | Blackrock Muni Yield Quality Fund, Inc | MQY |
-| 21 | 85 | $22.43 | [Chart](https://www.tradingview.com/chart/?symbol=CURB) | Curbline Properties Corp. | CURB |
-| 18 | 84 | $35.25 | [Chart](https://www.tradingview.com/chart/?symbol=AMH) | AMERICAN HOMES 4 RENT | AMH |
-| 21 | 84 | $74.79 | [Chart](https://www.tradingview.com/chart/?symbol=MET) | MetLife, Inc. | MET |
-| 23 | 84 | $11.10 | [Chart](https://www.tradingview.com/chart/?symbol=NAD) | Nuveen Quality Municipal Income Fund | NAD |
+| 21 | 85 | $56.66 | [Chart](https://www.tradingview.com/chart/?symbol=O) | Realty Income Corporation | O |
+| 20 | 84 | $14.28 | [Chart](https://www.tradingview.com/chart/?symbol=ACVA) | ACV Auctions Inc. | ACVA |
+| 22 | 84 | $44.67 | [Chart](https://www.tradingview.com/chart/?symbol=BILL) | BILL Holdings, Inc. | BILL |
+| 22 | 84 | $22.43 | [Chart](https://www.tradingview.com/chart/?symbol=CURB) | Curbline Properties Corp. | CURB |
 | 24 | 84 | $10.07 | [Chart](https://www.tradingview.com/chart/?symbol=NMZ) | Nuveen Municipal High Income Opportunity Fund | NMZ |
-| 21 | 83 | $45.28 | [Chart](https://www.tradingview.com/chart/?symbol=BILL) | BILL Holdings, Inc. | BILL |
-| 21 | 82 | $237.68 | [Chart](https://www.tradingview.com/chart/?symbol=WDAY) | Workday, Inc. Class A Common Stock | WDAY |
-| 24 | 80 | $56.79 | [Chart](https://www.tradingview.com/chart/?symbol=O) | Realty Income Corporation | O |
+| 25 | 84 | $10.33 | [Chart](https://www.tradingview.com/chart/?symbol=MYI) | BLACKROCK MUNIYIELD QUALITY FUND III, INC. | MYI |
+| 20 | 82 | $260.59 | [Chart](https://www.tradingview.com/chart/?symbol=CRM) | Salesforce, Inc. | CRM |
+| 21 | 82 | $38.16 | [Chart](https://www.tradingview.com/chart/?symbol=MSTX) | Tidal Trust II Defiance Daily Target 2x Long MSTR ETF | MSTX |
+| 23 | 80 | $86.61 | [Chart](https://www.tradingview.com/chart/?symbol=BIDU) | Baidu, Inc. | BIDU |
 | 25 | 80 | $12.61 | [Chart](https://www.tradingview.com/chart/?symbol=PCN) | PIMCO Corporate & Income Strategy Fund | PCN |
 | 28 | 80 | $14.87 | [Chart](https://www.tradingview.com/chart/?symbol=PLYM) | Plymouth Industrial REIT, Inc. | PLYM |
 | 23 | 79 | $24.05 | [Chart](https://www.tradingview.com/chart/?symbol=CLW) | Clearwater Paper Corporation | CLW |
-| 30 | 78 | $10.27 | [Chart](https://www.tradingview.com/chart/?symbol=MYI) | BLACKROCK MUNIYIELD QUALITY FUND III, INC. | MYI |
-| 38 | 78 | $17.01 | [Chart](https://www.tradingview.com/chart/?symbol=SVOL) | Simplify Volatility Premium ETF | SVOL |
-| 32 | 77 | $54.04 | [Chart](https://www.tradingview.com/chart/?symbol=AMWD) | American Woodmark Corp | AMWD |
-| 35 | 76 | $16.42 | [Chart](https://www.tradingview.com/chart/?symbol=XP) | XP Inc. Class A Common Stock | XP |
+| 31 | 77 | $12.46 | [Chart](https://www.tradingview.com/chart/?symbol=NU) | Nu Holdings Ltd. | NU |
+| 32 | 77 | $156.78 | [Chart](https://www.tradingview.com/chart/?symbol=NICE) | NICE Ltd | NICE |
+| 34 | 77 | $12.36 | [Chart](https://www.tradingview.com/chart/?symbol=RQI) | COHEN & STEERS QUALITY INCOME REALTY FUND, INC. COMMON SHARES | RQI |
+| 35 | 77 | $32.66 | [Chart](https://www.tradingview.com/chart/?symbol=DAR) | DARLING INGREDIENTS INC. | DAR |
+| 35 | 77 | $16.34 | [Chart](https://www.tradingview.com/chart/?symbol=XP) | XP Inc. Class A Common Stock | XP |
+| 33 | 76 | $54.04 | [Chart](https://www.tradingview.com/chart/?symbol=AMWD) | American Woodmark Corp | AMWD |
+| 35 | 75 | $104.34 | [Chart](https://www.tradingview.com/chart/?symbol=PRU) | Prudential Financial, Inc. | PRU |
 | 33 | 74 | $10.96 | [Chart](https://www.tradingview.com/chart/?symbol=NAC) | Nuveen California Quality Municipal Income Fund | NAC |
-| 32 | 73 | $45.92 | [Chart](https://www.tradingview.com/chart/?symbol=FTSL) | First Trust Senior Loan Fund ETF | FTSL |
+| 33 | 73 | $76.19 | [Chart](https://www.tradingview.com/chart/?symbol=MET) | MetLife, Inc. | MET |
+| 36 | 73 | $80.39 | [Chart](https://www.tradingview.com/chart/?symbol=FIS) | Fidelity National Information Services, Inc. | FIS |
+| 38 | 73 | $19.32 | [Chart](https://www.tradingview.com/chart/?symbol=VSCO) | Victorias Secret & Co. | VSCO |
+| 33 | 72 | $45.92 | [Chart](https://www.tradingview.com/chart/?symbol=FTSL) | First Trust Senior Loan Fund ETF | FTSL |
 | 30 | 71 | $50.14 | [Chart](https://www.tradingview.com/chart/?symbol=GSY) | Invesco Ultra Short Duration ETF | GSY |
-| 35 | 70 | $12.62 | [Chart](https://www.tradingview.com/chart/?symbol=NU) | Nu Holdings Ltd. | NU |
-| 38 | 70 | $161.10 | [Chart](https://www.tradingview.com/chart/?symbol=NICE) | NICE Ltd | NICE |
+| 34 | 71 | $11.91 | [Chart](https://www.tradingview.com/chart/?symbol=APLE) | Apple Hospitality REIT, Inc. | APLE |
+| 36 | 70 | $31.09 | [Chart](https://www.tradingview.com/chart/?symbol=KVYO) | Klaviyo, Inc. | KVYO |
 | 38 | 69 | $19.01 | [Chart](https://www.tradingview.com/chart/?symbol=AAT) | AMERICAN ASSETS TRUST, INC. | AAT |
-| 37 | 67 | $32.97 | [Chart](https://www.tradingview.com/chart/?symbol=DAR) | DARLING INGREDIENTS INC. | DAR |
+| 39 | 66 | $14.45 | [Chart](https://www.tradingview.com/chart/?symbol=OBDC) | Blue Owl Capital Corporation | OBDC |
 | 39 | 62 | $1042.67 | [Chart](https://www.tradingview.com/chart/?symbol=GWW) | W.W. Grainger, Inc. | GWW |
 
 ## **Methodology**
